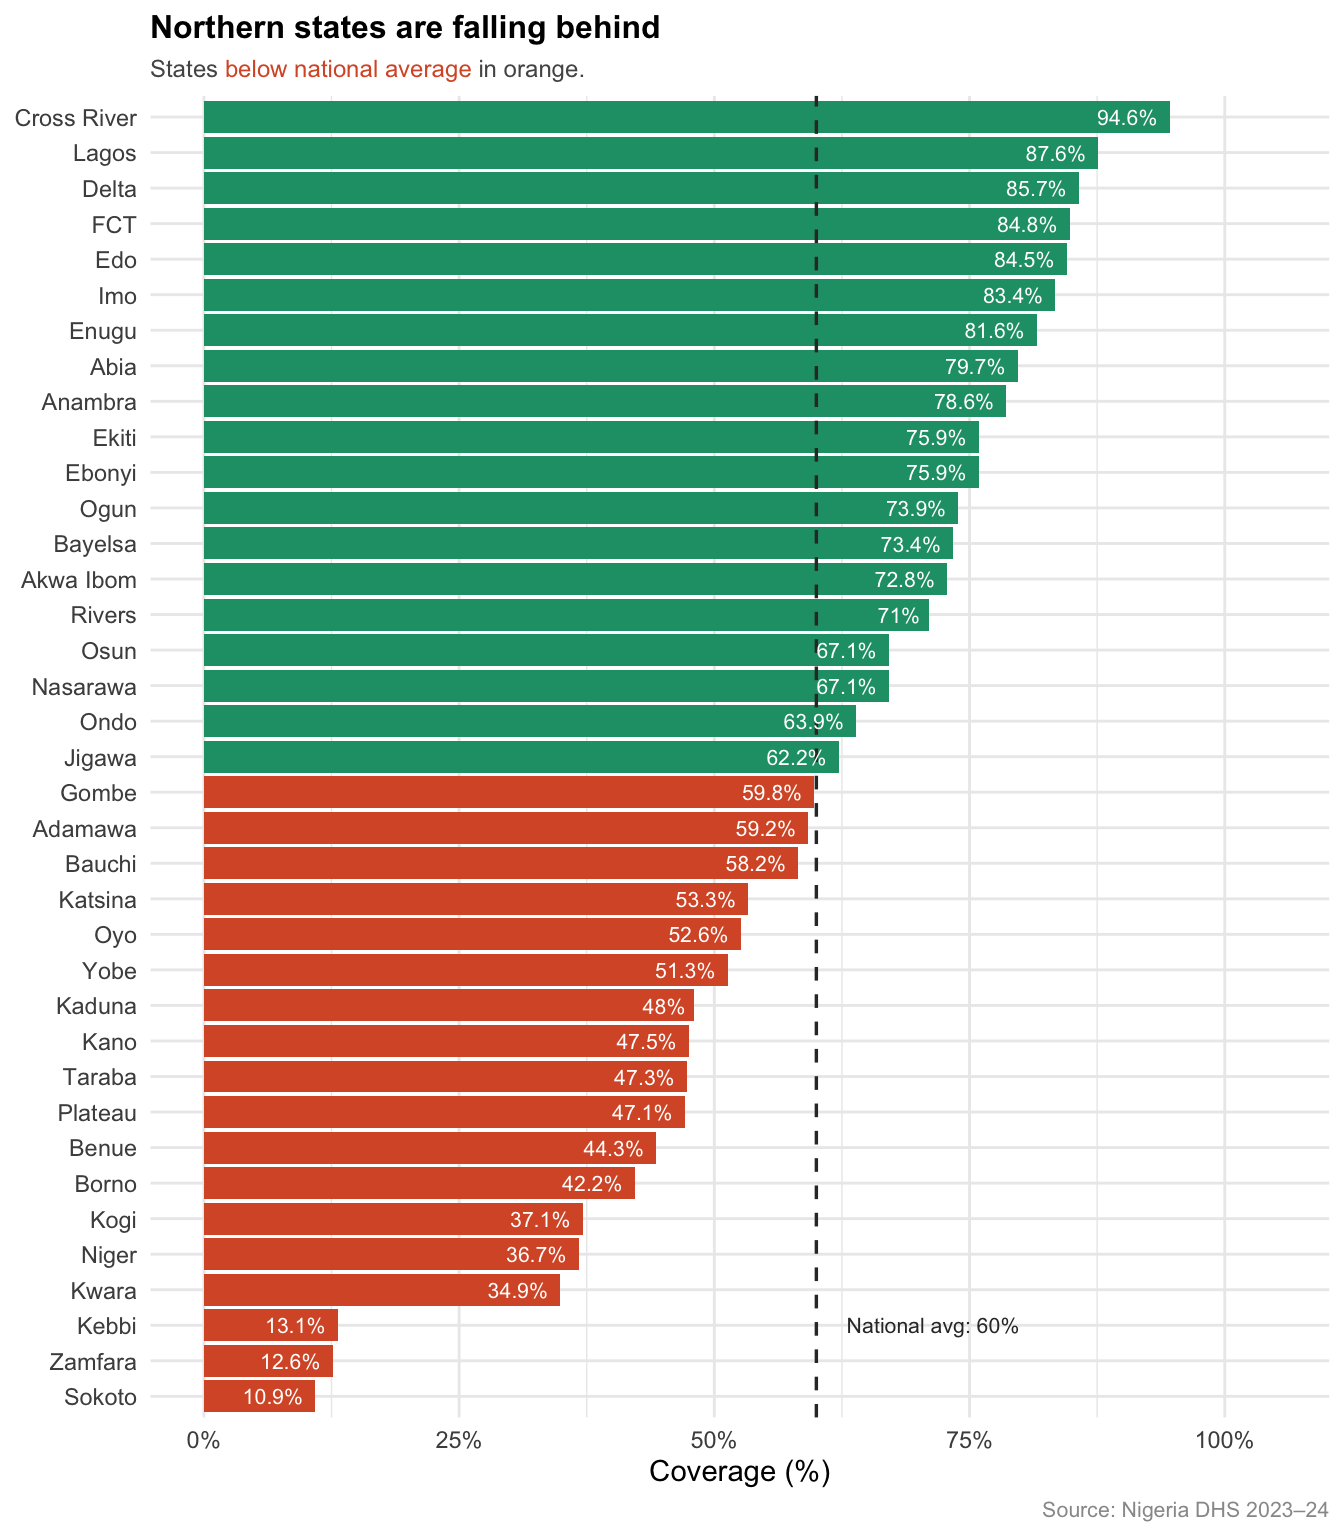
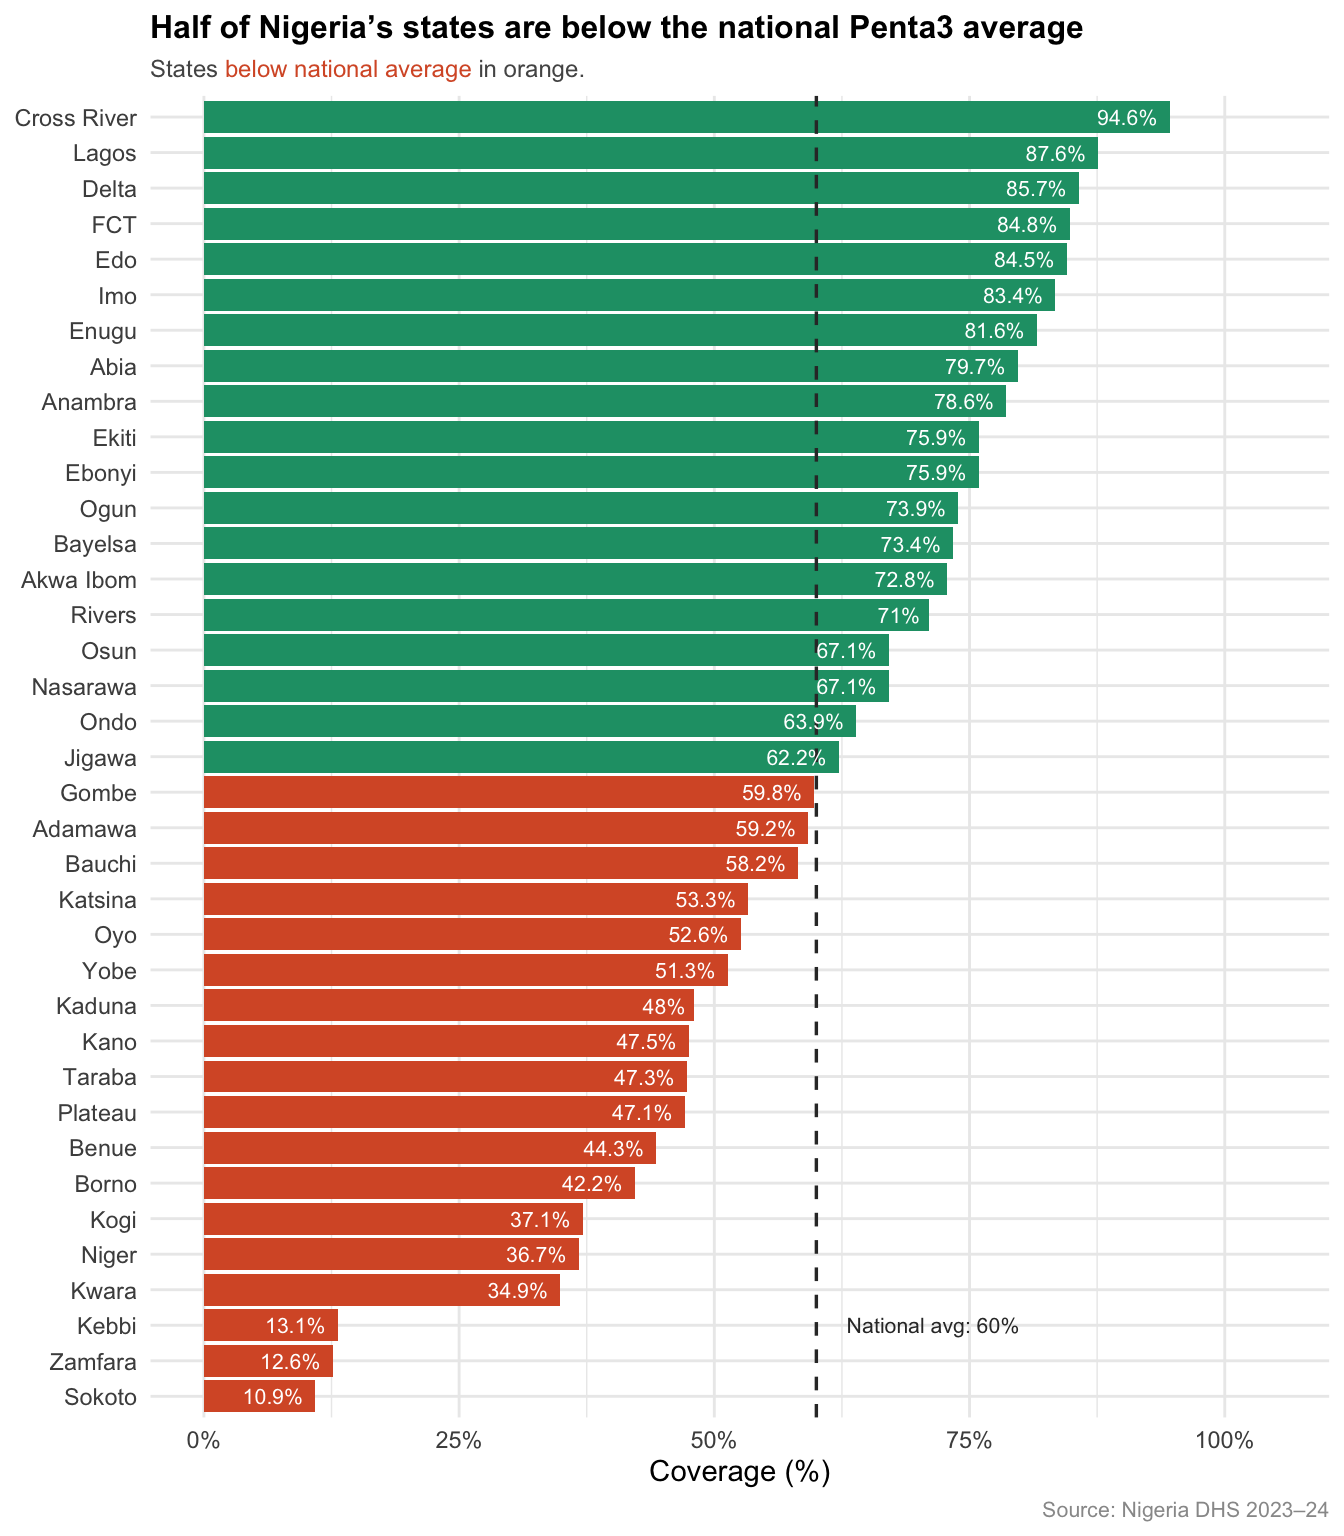
Fix chart layout and titles in Tutorial 1

Changed region(s): [[0.125, 0.0, 0.8125, 0.0312]]

diff --git a/docs/data-viz-for-policy/01-why-charts-fail-policymakers.html b/docs/data-viz-for-policy/01-why-charts-fail-policymakers.html
@@ -441,7 +441,7 @@ pre > code.sourceCode > span > a:first-child::before { text-decoration: underlin
 <span id="cb13-42"><a href="#cb13-42" aria-hidden="true" tabindex="-1"></a>    <span class="at">colour =</span> <span class="st">"#333333"</span></span>
 <span id="cb13-43"><a href="#cb13-43" aria-hidden="true" tabindex="-1"></a>  ) <span class="sc">+</span></span>
 <span id="cb13-44"><a href="#cb13-44" aria-hidden="true" tabindex="-1"></a>  <span class="fu">labs</span>(</span>
-<span id="cb13-45"><a href="#cb13-45" aria-hidden="true" tabindex="-1"></a>    <span class="at">title    =</span> <span class="st">"**Northern states are falling behind**"</span>,</span>
+<span id="cb13-45"><a href="#cb13-45" aria-hidden="true" tabindex="-1"></a>    <span class="at">title    =</span> <span class="st">"**Half of Nigeria's states are below the national Penta3 average**"</span>,</span>
 <span id="cb13-46"><a href="#cb13-46" aria-hidden="true" tabindex="-1"></a>    <span class="at">subtitle =</span> <span class="st">"States &lt;span style='color:#D85A30'&gt;below national average&lt;/span&gt; in orange."</span>,</span>
 <span id="cb13-47"><a href="#cb13-47" aria-hidden="true" tabindex="-1"></a>    <span class="at">x        =</span> <span class="cn">NULL</span>,</span>
 <span id="cb13-48"><a href="#cb13-48" aria-hidden="true" tabindex="-1"></a>    <span class="at">y        =</span> <span class="st">"Coverage (%)"</span>,</span>
